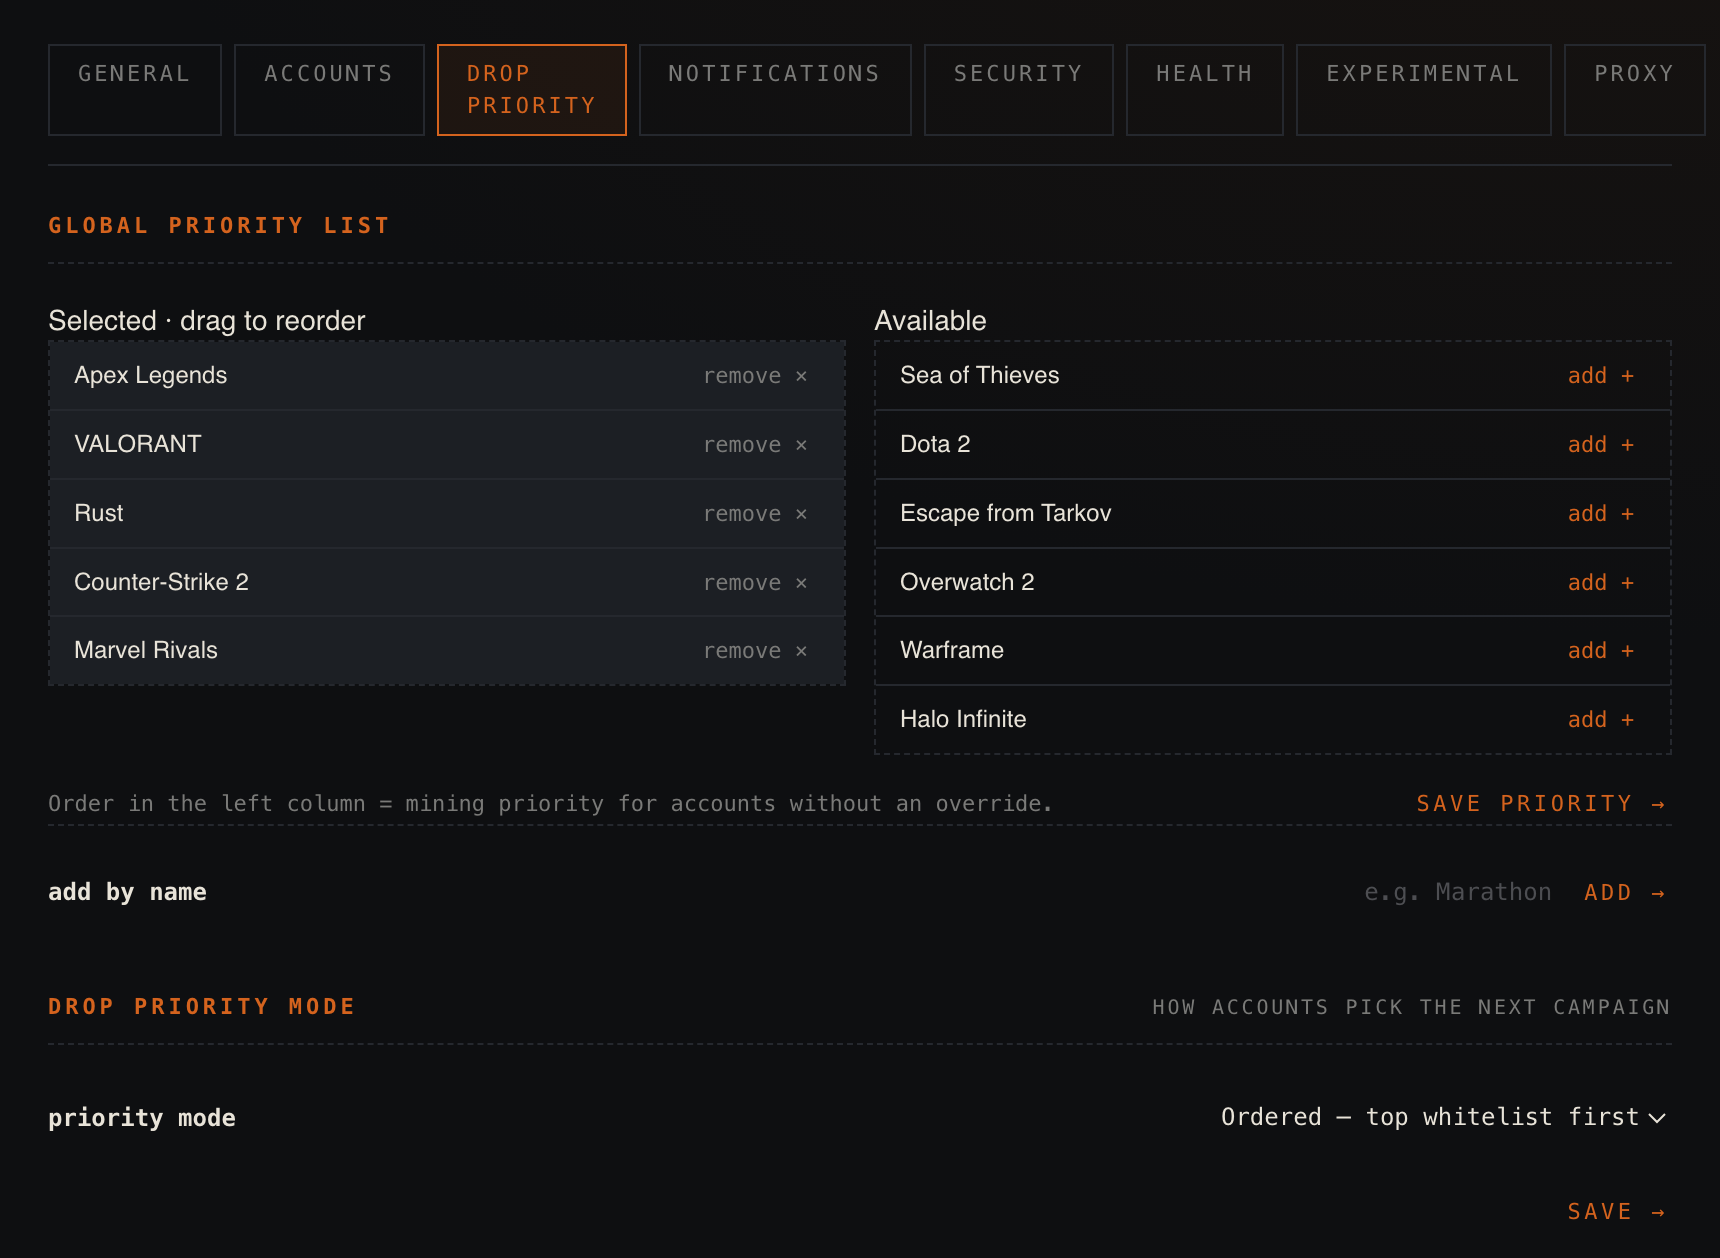
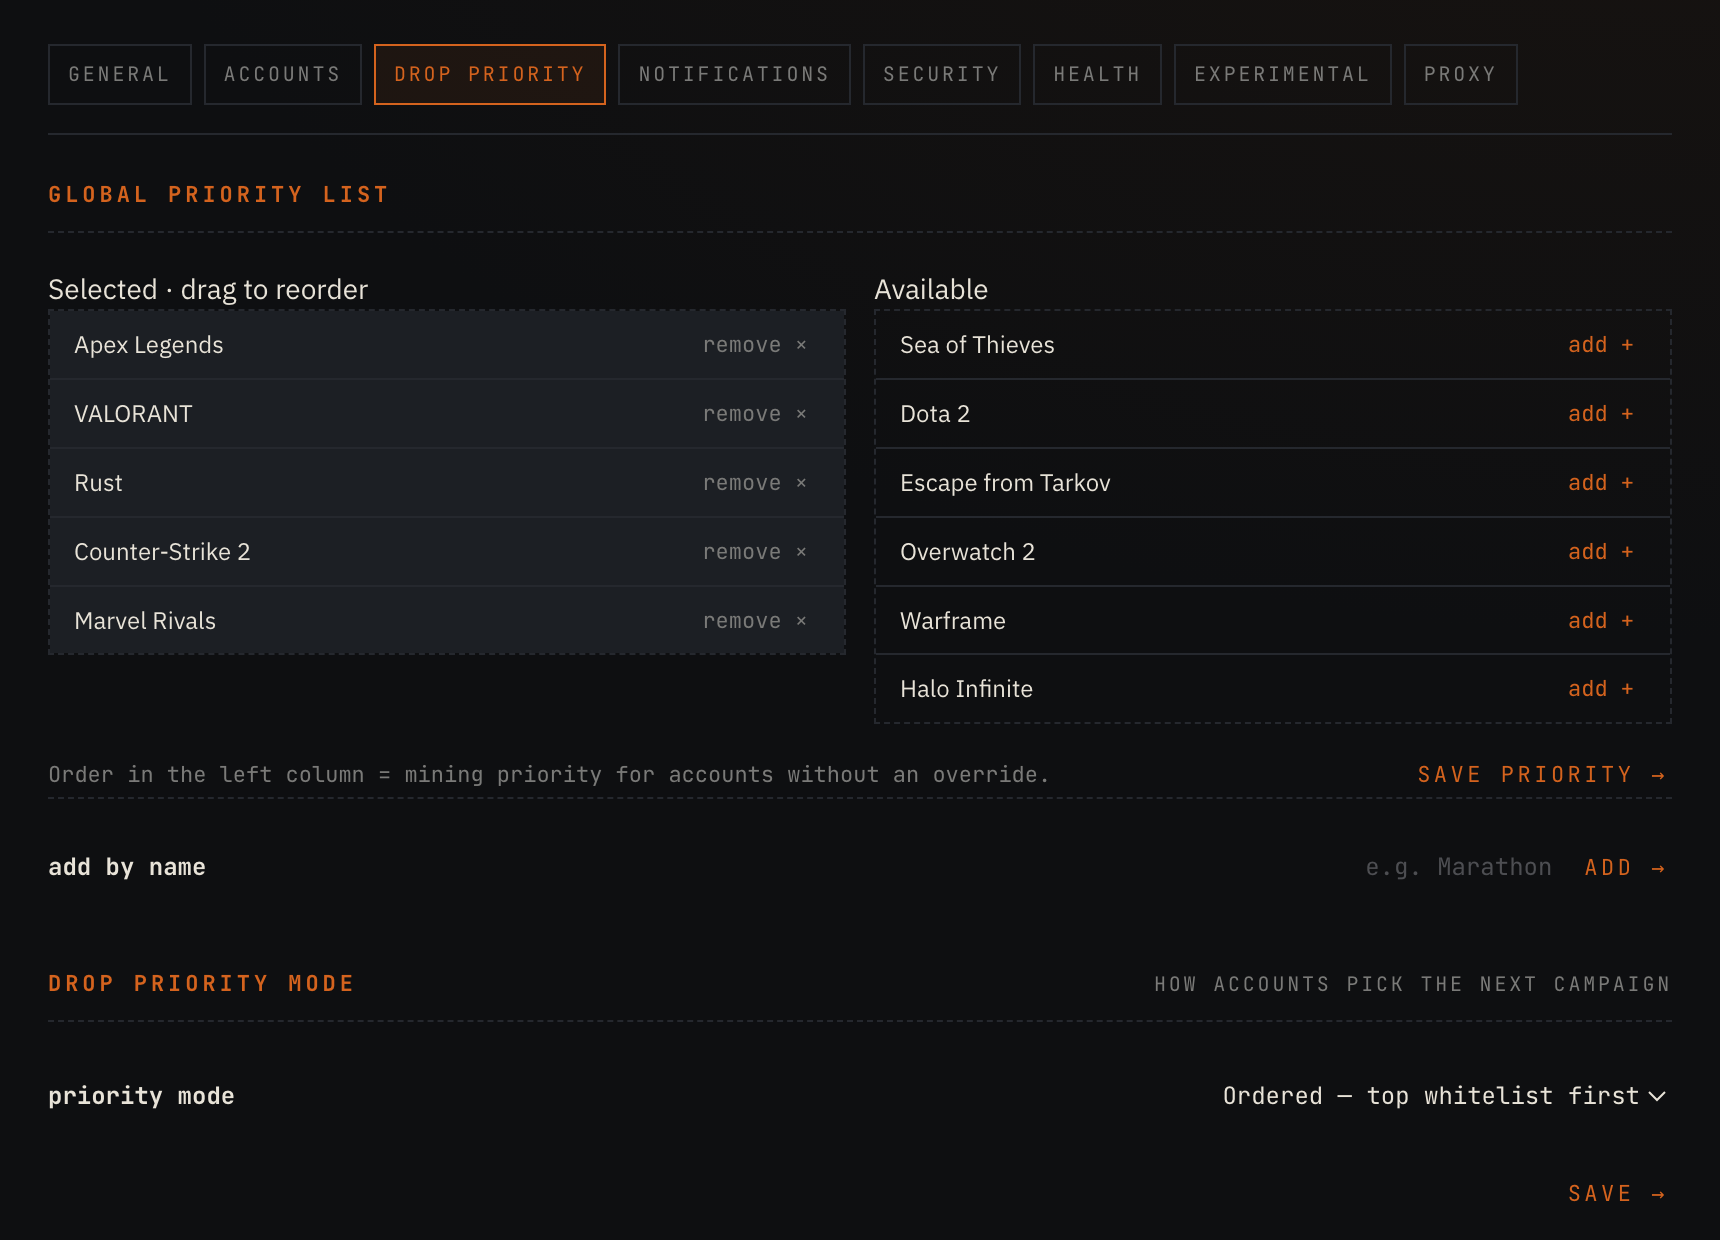
docs(seo): drop-item thumbnails + one-line settings subnav in mockups
- Fill the empty drop-item icon tiles with gradient reward thumbnails.
- Shrink the settings subnav font so all tabs fit on one line at the
  screenshot width (Drop Priority was wrapping).
- Re-render + recombine the hero image.

diff --git a/docs/mockups/drops.html b/docs/mockups/drops.html
@@ -84,19 +84,19 @@
               <div class="drop-items">
                 <div class="drop-items-head"><span></span><span>item</span><span>collected</span><span>type</span></div>
                 <div class="drop-item">
-                  <span class="drop-item-icon"><span class="ph"></span></span>
+                  <span class="drop-item-icon"><span class="ph" style="background:linear-gradient(135deg,#b07bff,#6d28d9);border-color:transparent;display:flex;align-items:center;justify-content:center;font-size:15px;line-height:1;">🖼</span></span>
                   <span class="drop-item-name">Holo Banner Frame</span>
                   <span class="drop-item-collected"><span class="cmark cmark-twitch" title="claimed by northwind_aria">northwind_aria</span></span>
                   <span class="drop-item-type"><span class="dtype dtype-watch" title="watch-time drop — auto-mined">⏱ 120m watch</span></span>
                 </div>
                 <div class="drop-item">
-                  <span class="drop-item-icon"><span class="ph"></span></span>
+                  <span class="drop-item-icon"><span class="ph" style="background:linear-gradient(135deg,#34d3c0,#1d7a8c);border-color:transparent;display:flex;align-items:center;justify-content:center;font-size:15px;line-height:1;">🧿</span></span>
                   <span class="drop-item-name">Pathfinder Charm</span>
                   <span class="drop-item-collected"><span class="cmark cmark-twitch" title="claimed by quietfern">quietfern</span></span>
                   <span class="drop-item-type"><span class="dtype dtype-watch" title="watch-time drop — auto-mined">⏱ 180m watch</span></span>
                 </div>
                 <div class="drop-item drop-dim">
-                  <span class="drop-item-icon"><span class="ph"></span></span>
+                  <span class="drop-item-icon"><span class="ph" style="background:linear-gradient(135deg,#f5b042,#b9701a);border-color:transparent;display:flex;align-items:center;justify-content:center;font-size:15px;line-height:1;">📦</span></span>
                   <span class="drop-item-name">Founder Loot Cache</span>
                   <span class="drop-item-collected"><span class="cmark-none">—</span></span>
                   <span class="drop-item-type"><span class="dtype dtype-action" title="action required">action required</span></span>

diff --git a/docs/mockups/whitelist.html b/docs/mockups/whitelist.html
@@ -16,6 +16,9 @@
   .shell > .ph { display: none !important; }
   main { padding: 22px 0 8px !important; }
   .shell { padding-top: 0 !important; }
+  /* keep the settings subnav on one line at the narrow screenshot width */
+  .subnav { flex-wrap: nowrap !important; }
+  .subnav-link { font-size: 10px !important; white-space: nowrap !important; padding: 7px 9px !important; }
 </style>
 </head>
 <body>
